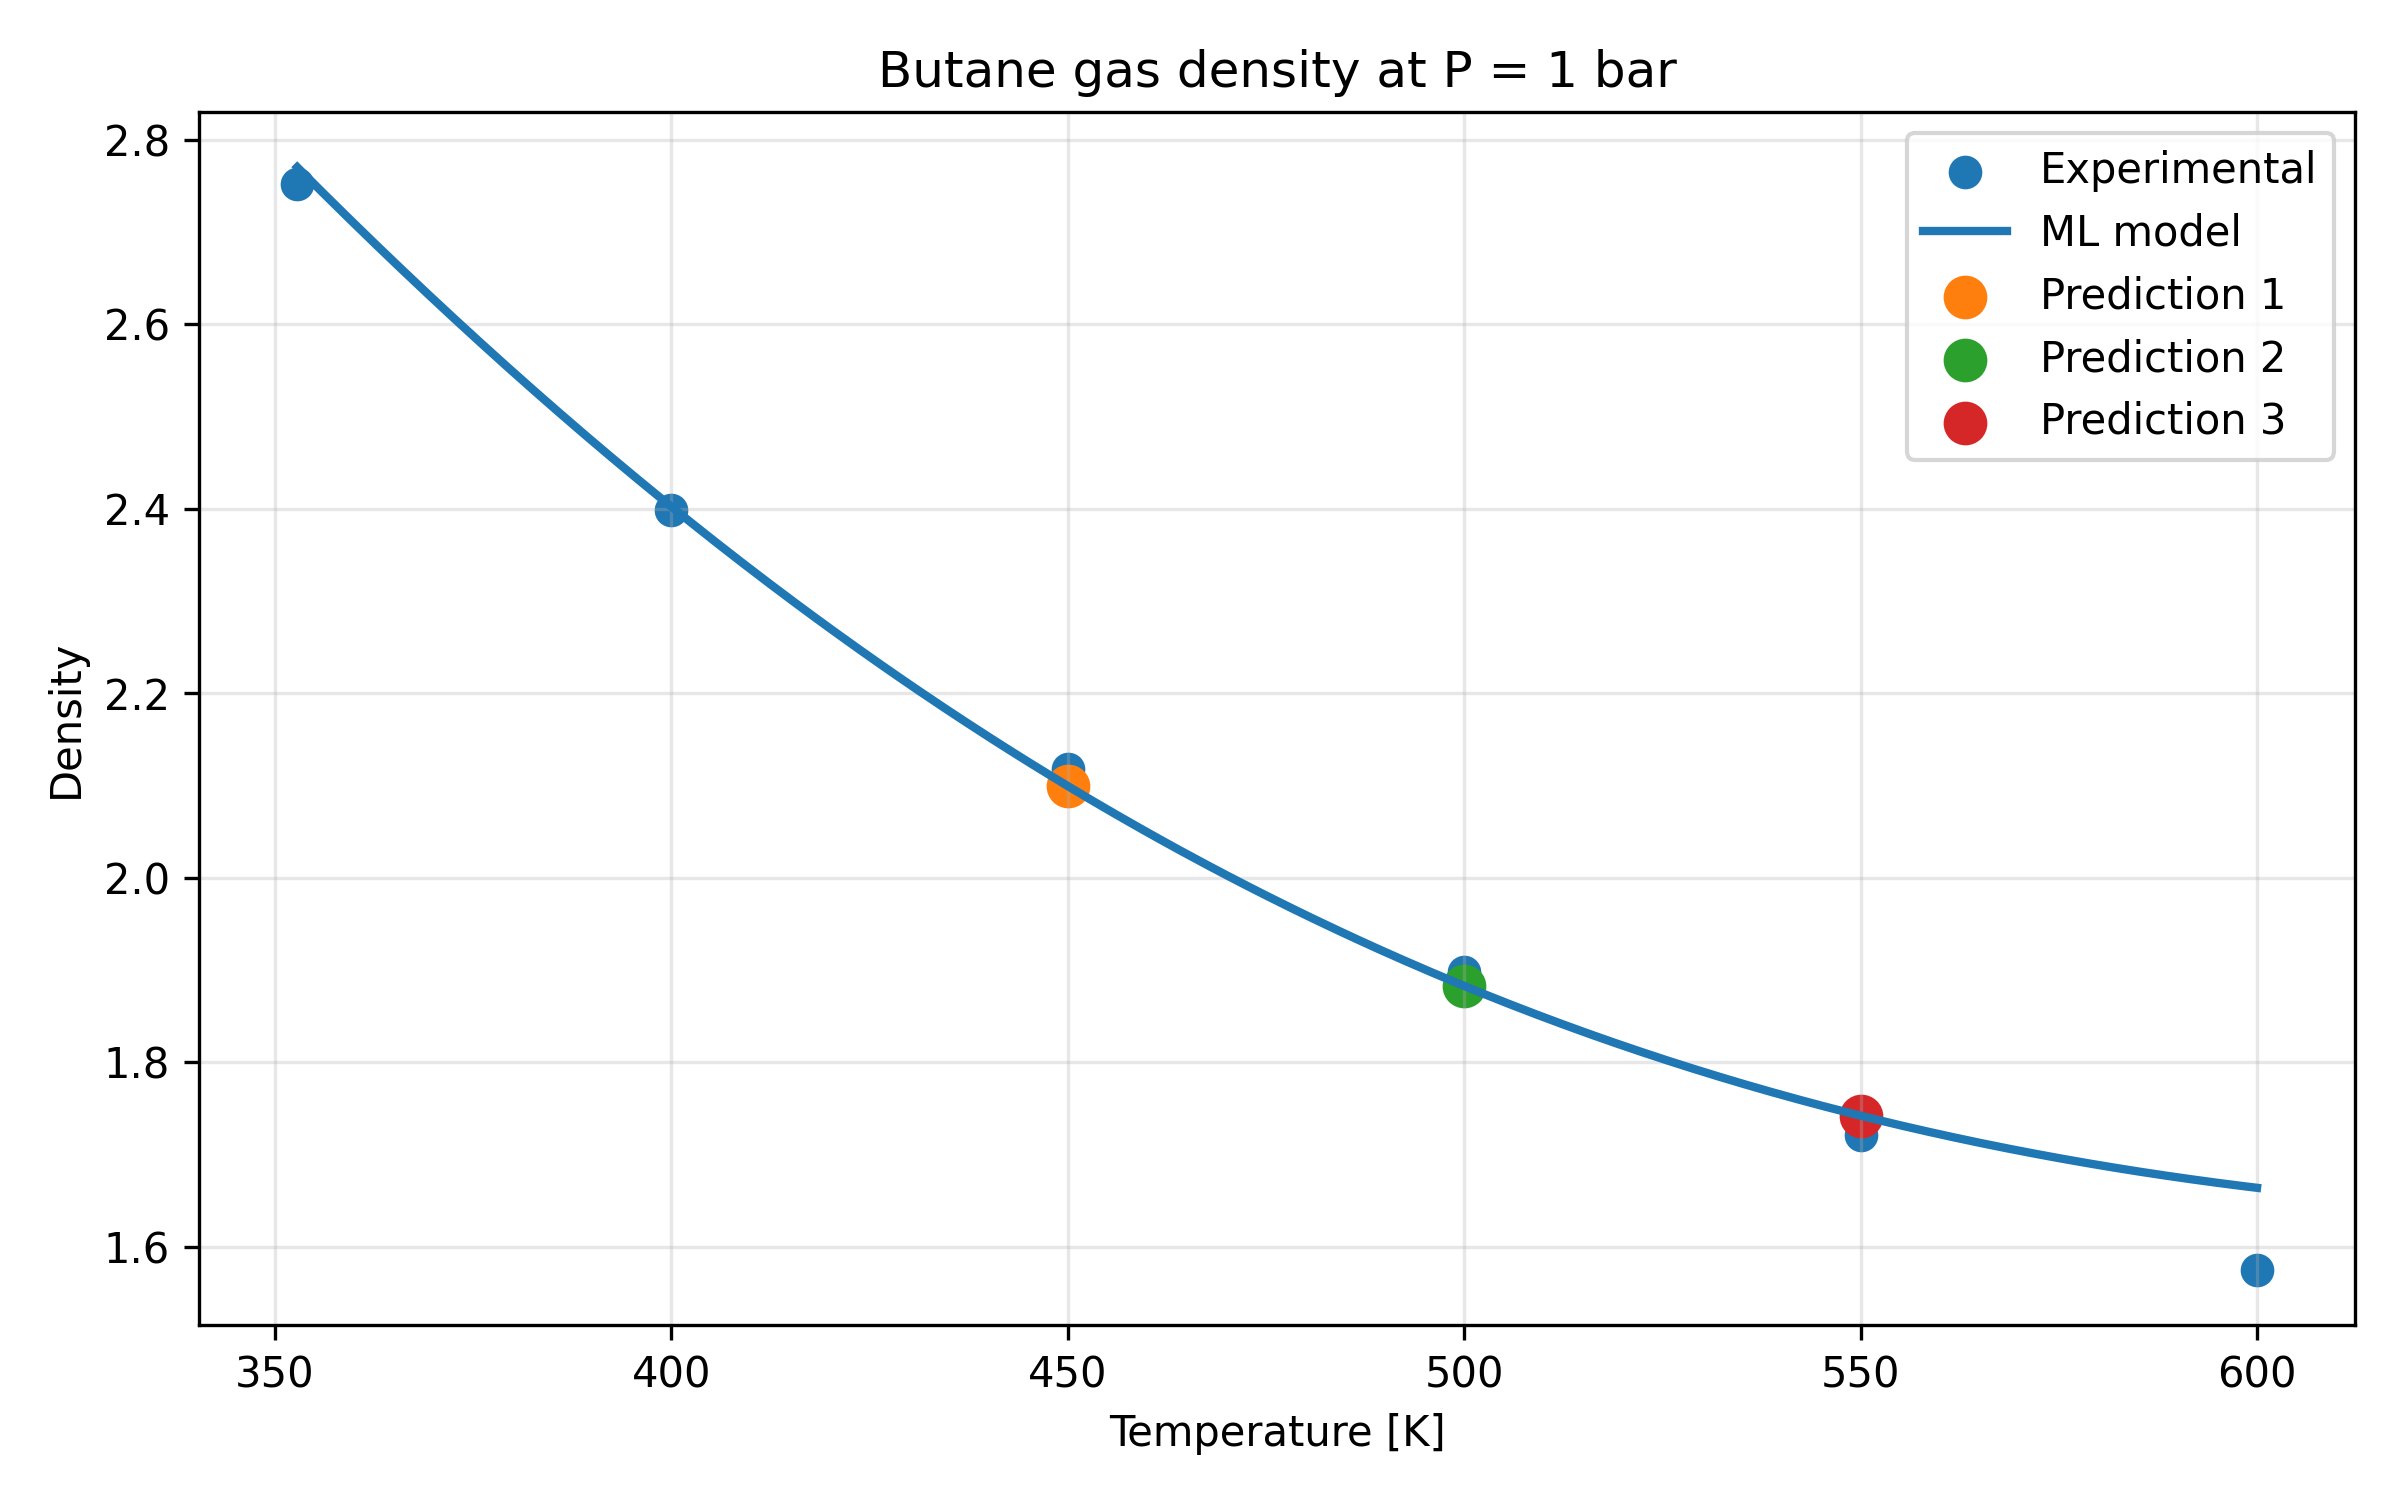
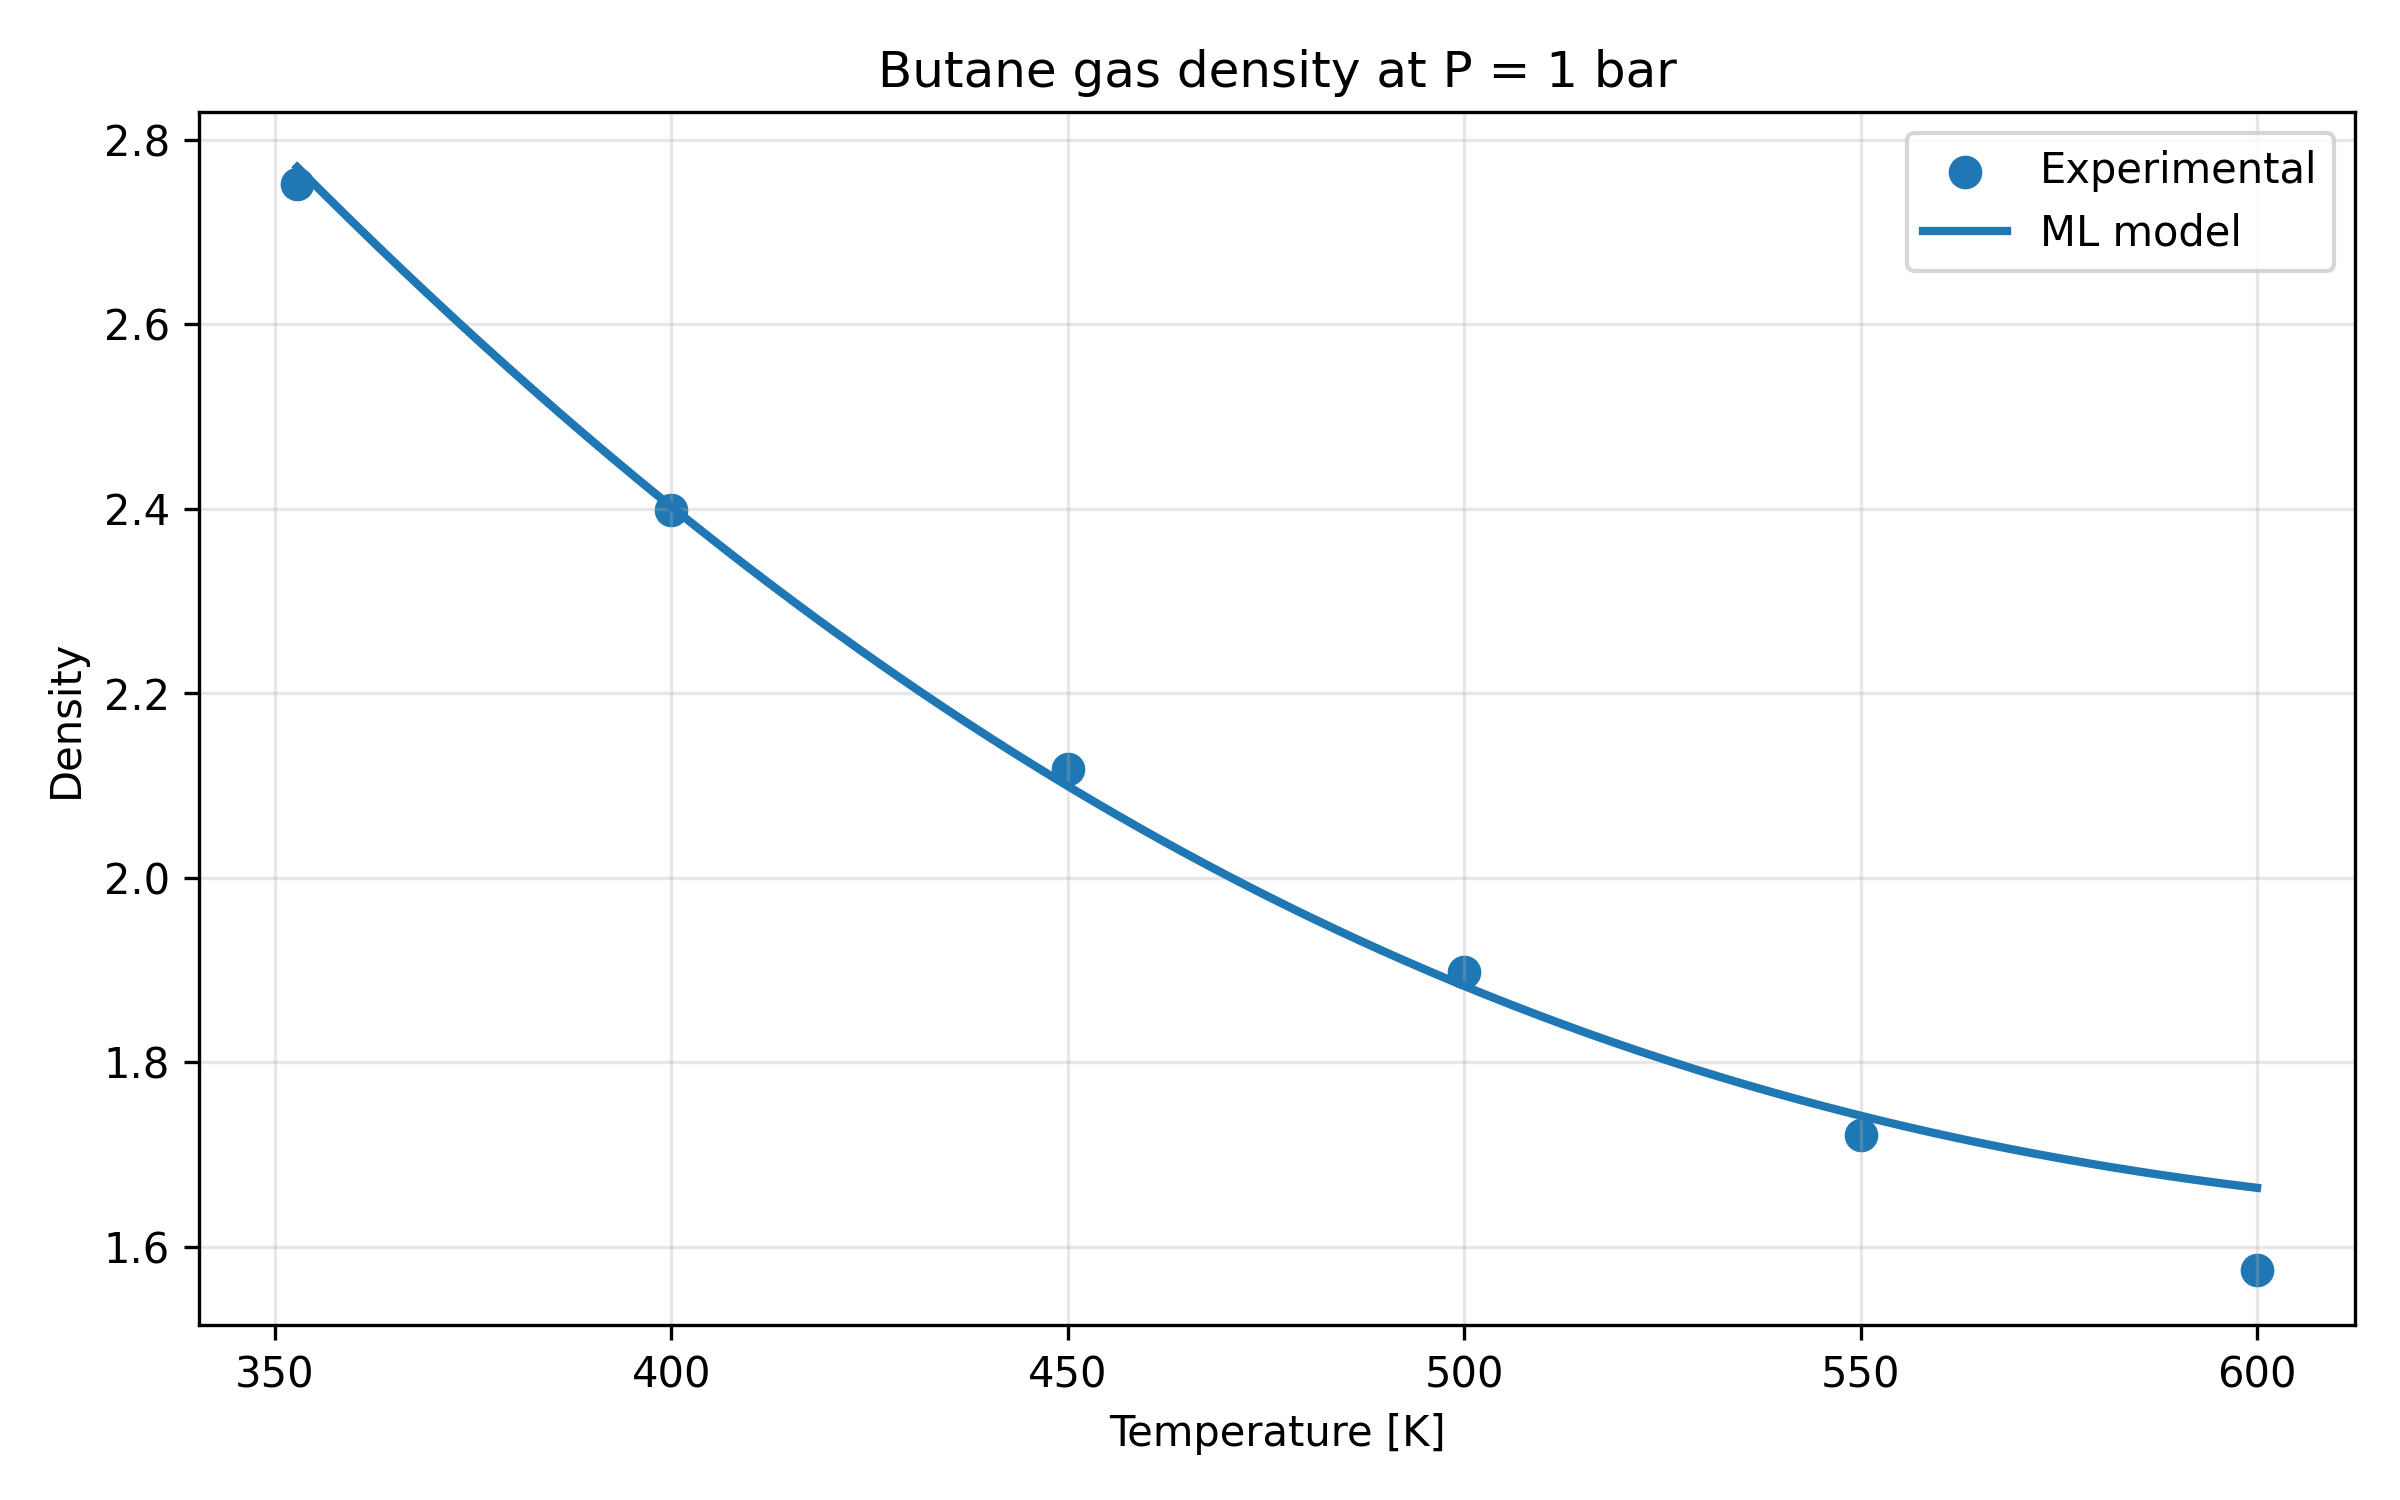
lab4

diff --git a/lab4/wilson.py b/lab4/wilson.py
@@ -1,0 +1,107 @@
+import numpy as np
+import matplotlib.pyplot as plt
+from scipy.optimize import minimize
+
+T = 298.15
+R = 8.314462618
+R_bar = 0.08314462618
+
+A1, B1, C1 = 15.87, 2808.19, -45.99
+Tc1, Pc1, w1 = 556.40, 45.60, 0.19
+
+A2, B2, C2 = 15.90, 2788.51, -52.36
+Tc2, Pc2, w2 = 562.10, 48.94, 0.21
+
+x1 = np.array([0.100, 0.300, 0.500, 0.700, 0.900])
+y1 = np.array([0.130, 0.342, 0.562, 0.706, 0.908])
+Pexp = np.array([0.1310, 0.1379, 0.1435, 0.1478, 0.1510])
+
+x2 = 1 - x1
+y2 = 1 - y1
+
+P1sat = np.exp(A1 - B1 / (T + C1)) * 133.322 / 1e5
+P2sat = np.exp(A2 - B2 / (T + C2)) * 133.322 / 1e5
+
+Z1 = 0.29056 - 0.08775 * w1
+Z2 = 0.29056 - 0.08775 * w2
+
+V1 = (R_bar * Tc1 / Pc1) * Z1 ** (1 + (1 - T / Tc1) ** (2 / 7))
+V2 = (R_bar * Tc2 / Pc2) * Z2 ** (1 + (1 - T / Tc2) ** (2 / 7))
+
+g1_exp = y1 * Pexp / (x1 * P1sat)
+g2_exp = y2 * Pexp / (x2 * P2sat)
+gE_exp = R * T * (x1 * np.log(g1_exp) + x2 * np.log(g2_exp))
+
+
+def ln_gamma(x, a12, a21):
+    x = np.asarray(x)
+    x2 = 1 - x
+    L12 = (V2 / V1) * np.exp(-a12 / (R * T))
+    L21 = (V1 / V2) * np.exp(-a21 / (R * T))
+    d1 = x + L12 * x2
+    d2 = x2 + L21 * x
+    ln1 = -np.log(d1) + x2 * (L12 / d1 - L21 / d2)
+    ln2 = -np.log(d2) - x * (L12 / d1 - L21 / d2)
+    return ln1, ln2
+
+
+def f(a):
+    a12, a21 = a
+    ln1, ln2 = ln_gamma(x1, a12, a21)
+    gE = R * T * (x1 * ln1 + x2 * ln2)
+    return np.sum(np.abs(gE_exp - gE))
+
+
+res = minimize(f, [10000, 5000], method='Nelder-Mead')
+a12, a21 = res.x
+
+ln1, ln2 = ln_gamma(x1, a12, a21)
+g1 = np.exp(ln1)
+g2 = np.exp(ln2)
+
+Pcalc = x1 * g1 * P1sat + x2 * g2 * P2sat
+y1calc = x1 * g1 * P1sat / Pcalc
+
+L12 = (V2 / V1) * np.exp(-a12 / (R * T))
+L21 = (V1 / V2) * np.exp(-a21 / (R * T))
+
+print(f'alpha12 = {a12:.6f} J/mol')
+print(f'alpha21 = {a21:.6f} J/mol')
+print(f'Lambda12 = {L12:.6f}')
+print(f'Lambda21 = {L21:.6f}')
+print(' x1      y1_exp   y1_calc   P_exp     P_calc')
+for i in range(len(x1)):
+    print(f'{x1[i]:.3f}   {y1[i]:.3f}    {y1calc[i]:.3f}    {Pexp[i]:.4f}   {Pcalc[i]:.4f}')
+
+x = np.linspace(0, 1, 200)
+x2 = 1 - x
+ln1, ln2 = ln_gamma(x, a12, a21)
+g1 = np.exp(ln1)
+g2 = np.exp(ln2)
+P = x * g1 * P1sat + x2 * g2 * P2sat
+y = x * g1 * P1sat / P
+
+plt.figure(figsize=(7, 5))
+plt.plot(x, y)
+plt.scatter(x1, y1)
+plt.plot([0, 1], [0, 1], '--')
+plt.xlabel('x1')
+plt.ylabel('y1')
+plt.title('y-x диаграмма')
+plt.grid()
+plt.tight_layout()
+plt.savefig('diagram_yx.png', dpi=300)
+
+plt.figure(figsize=(7, 5))
+plt.plot(x, P)
+plt.plot(y, P)
+plt.scatter(x1, Pexp)
+plt.scatter(y1, Pexp, marker='s')
+plt.xlabel('x1, y1')
+plt.ylabel('P, bar')
+plt.title('P-x-y диаграмма')
+plt.grid()
+plt.tight_layout()
+plt.savefig('diagram_pxy.png', dpi=300)
+
+plt.show()
